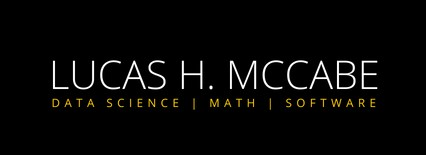
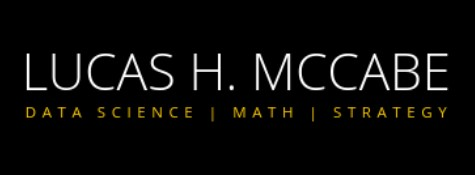
small details
software -> strategy

Changed region(s): [[0.0305, 0.2839, 0.946, 0.6968]]

diff --git a/style - black version.css b/style - black version.css
@@ -1,0 +1,200 @@
+body {
+	margin:0;
+	padding:0;
+	background-color: black;
+}
+
+/* header at the top */
+.logo {
+	display: inline-block;
+	vertical-align: bottom;
+	width: 475px;
+	height: 175px;
+	margin-right: 0px;
+	margin-top: 15px;
+}
+
+/* navigation bar with links */
+.navigation {
+	text-align:center;
+	width: 100%;
+	height: 200px;
+	background-color: black; 
+}
+
+.navigation > a {
+	display: inline-block;
+	vertical-align: top;
+	margin-left: 824px;
+	margin-right: 308px;
+	height: 80px;    
+	line-height: 80px;
+}
+
+a {
+
+	text-decoration: none;
+	outline: 0;
+	color: 	#FFCC00;
+}
+
+/* icons become gold with red shadow when user hovers over */
+a:hover {
+	text-decoration: bolder;
+	color: 	#FFCC00;
+	text-shadow: 0 0 5px #8b0000;
+}
+
+ul {
+	text-align:center;
+	position: left;
+ 	top: 0;
+	width: 100%;
+	list-style-type: none;
+	margin: auto;
+	padding: 0;
+	overflow: hidden;
+	background-color: #000;
+	font-size: 30px;
+}
+
+li {
+	text-align:center;
+	display: inline;
+}
+
+li a {
+	display: inline-block;
+	color: white;
+	text-align: center;
+	padding: 14px 16px;
+	text-decoration: none;
+}
+
+/* box becomes grey when user hovers over*/
+li a:hover {
+	background-color: #333;
+}
+
+
+/* box becomes grey to show what page the user is on */
+li a:active {
+	background-color: #333;
+}
+
+
+/* I think this is dead now. Delete later */
+.content {
+	display:inline-block;
+	font-family: "Lucida Sans Unicode";
+	font-style: normal;
+	font-variant: normal;
+	color: white;
+	line-height: 1.5;
+}
+
+body {
+	background-color: black;
+}
+
+/* grey control bar - Mac OSX style */
+#control {
+	text-align: center;
+	width: 750px;
+	height: 25px;
+	background-color: black;/*#999;*/
+	margin: auto;
+	font-family: monospace;
+	float: none;
+	border-radius: 5px;
+}
+
+/* pretty, but non-functional buttons */
+
+/* red close button */
+#close {
+	background-color: red;
+	border-radius: 50%;
+	width: 15px;
+	height: 15px;
+	margin: auto;
+	left: -352px;
+	bottom: -20%;
+	position: relative;
+}
+
+/* yellow minimize button */
+#minimize {
+	display: block;
+	background-color: #FFCC00;
+	border-radius: 50%;
+	width: 15px;
+	height: 15px;
+	margin: auto;
+	left: -330px;
+	bottom: 40%;
+	position: relative;
+}
+
+/* green enlarge button */
+#enlarge {
+	background-color: green;
+	border-radius: 50%;
+	width: 15px;
+	height: 15px;
+	margin: 0 auto;
+	left: -308px;
+	bottom: 99%;
+	position:relative;
+	display: block;
+}
+
+/* terminal window itself */
+#window {
+	background-color: black; /*#333;*/
+	width: 750px;
+	height: 475px;
+	margin: 0 auto;
+	padding: 1px;
+	border-radius: 5px;
+}
+
+/* brief bio */
+p {
+	margin-left: 15px;
+}
+
+/* cursor at the end of terminal text */
+p:after {
+	content: "_";
+	opacity: 0;
+	animation: cursor 1s infinite;
+}
+
+.writing {
+	line-height: 2;
+	color: white;
+	font-family: 'Open Sans';
+	font-size: 17px;
+	text-align: left;
+	position: static;
+}
+
+/* blinking animation for cursor */
+@keyframes cursor {
+	0% {
+		opacity: 0;
+	}
+	40% {
+		opacity: 0;
+	}
+	50% {
+		opacity: 1;
+	}
+	90% {
+		opacity: 1;
+	}
+	100% {
+		opacity: 0;
+	}
+}
